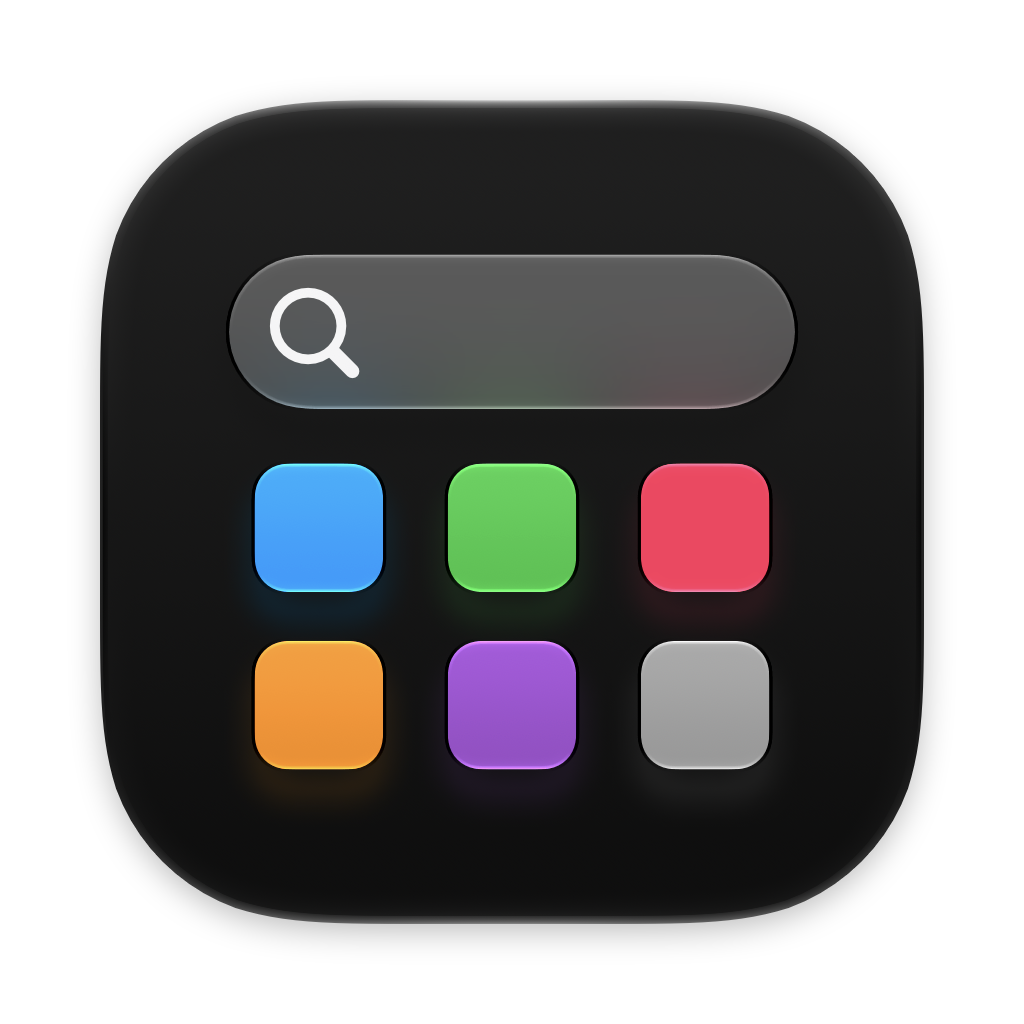
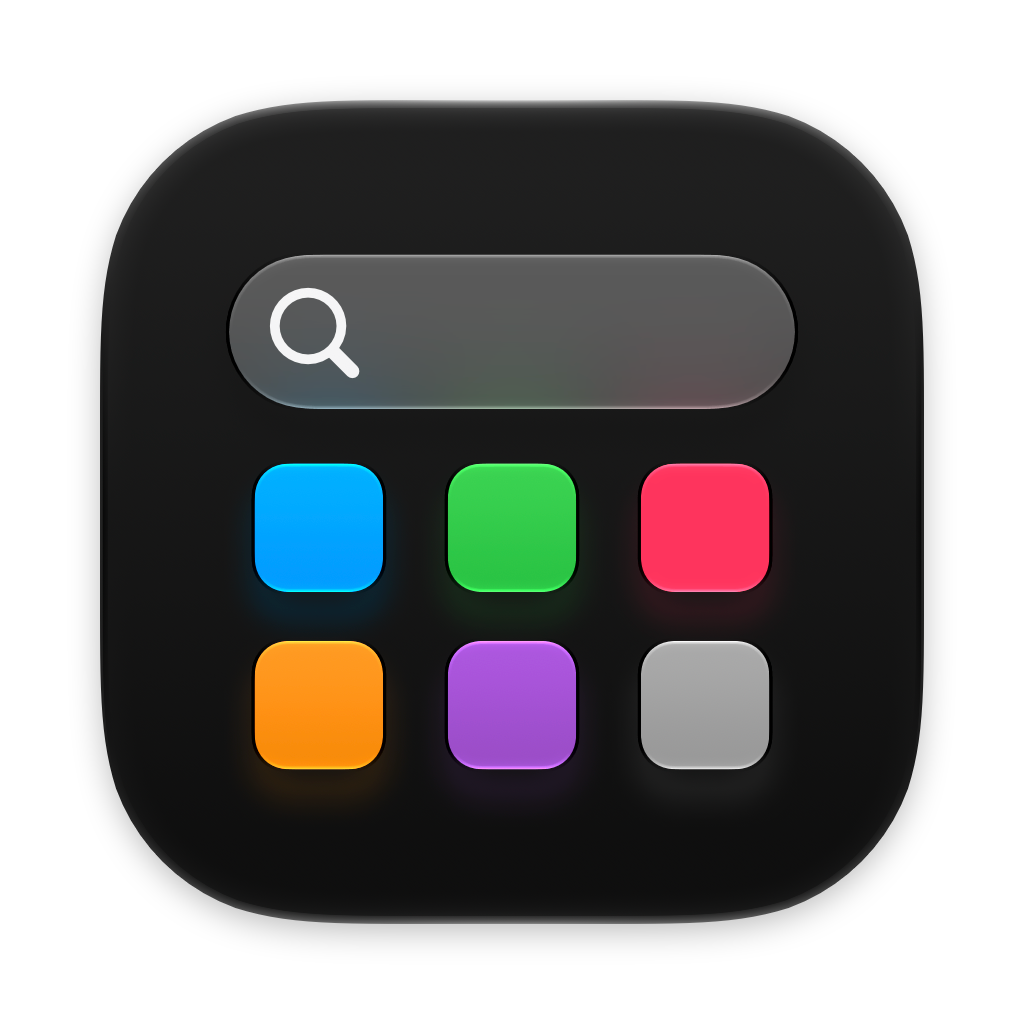
feat(settings): 提取系统官方高清单体并支持自适应深浅色图标

Changed region(s): [[0.4375, 0.4375, 0.5625, 0.5938], [0.25, 0.4375, 0.375, 0.5938], [0.25, 0.625, 0.375, 0.75]]

diff --git a/Sources/QLaunchpad/QLaunchpadSelfIconManager.swift b/Sources/QLaunchpad/QLaunchpadSelfIconManager.swift
@@ -46,11 +46,53 @@ final class QLaunchpadSelfIconManager: ObservableObject {
 
     private var customIconCache: NSImage?
     private var presetImageCache: [AppIconPreset: NSImage] = [:]
+    private var systemDynamicImage: NSImage?
+    private var systemLightImage: NSImage?
+    private var systemDarkImage: NSImage?
 
     private init() {
         let savedRaw = UserDefaults.standard.string(forKey: QLaunchpadPreferences.selfAppIconPresetKey) ?? AppIconPreset.default.rawValue
         self.currentPreset = AppIconPreset(rawValue: savedRaw) ?? .default
         self.hasCustomIcon = FileManager.default.fileExists(atPath: customIconFileURL.path)
+        setupAppearanceObservers()
+    }
+
+    private func setupAppearanceObservers() {
+        DistributedNotificationCenter.default().addObserver(
+            forName: NSNotification.Name("AppleInterfaceThemeChangedNotification"),
+            object: nil,
+            queue: .main
+        ) { [weak self] _ in
+            Task { @MainActor [weak self] in
+                self?.handleAppearanceChange()
+            }
+        }
+
+        NotificationCenter.default.addObserver(
+            forName: NSApplication.didChangeScreenParametersNotification,
+            object: nil,
+            queue: .main
+        ) { [weak self] _ in
+            Task { @MainActor [weak self] in
+                self?.handleAppearanceChange()
+            }
+        }
+    }
+
+    private func handleAppearanceChange() {
+        if currentPreset == .system {
+            applyToSystem(preset: .system)
+        }
+        objectWillChange.send()
+        NotificationCenter.default.post(name: .qlaunchpadSelfIconChanged, object: nil)
+    }
+
+    /// Whether macOS is currently operating in Dark Mode
+    var isSystemDarkMode: Bool {
+        if let app = NSApp {
+            return app.effectiveAppearance.bestMatch(from: [.darkAqua, .aqua]) == .darkAqua
+        }
+        return UserDefaults.standard.string(forKey: "AppleInterfaceStyle") == "Dark"
     }
 
     var customIconFileURL: URL {
@@ -63,7 +105,7 @@ final class QLaunchpadSelfIconManager: ObservableObject {
 
     /// The active display icon for QLaunchpad (for About view, Settings, etc.)
     var currentAppIcon: NSImage {
-        image(for: currentPreset) ?? defaultAppIcon
+        image(for: currentPreset, isDark: isSystemDarkMode) ?? defaultAppIcon
     }
 
     /// The default application icon
@@ -76,17 +118,58 @@ final class QLaunchpadSelfIconManager: ObservableObject {
         return NSApplication.shared.applicationIconImage
     }
 
-    /// Retrieves the image for a specific preset
-    func image(for preset: AppIconPreset) -> NSImage? {
-        if let cached = presetImageCache[preset] {
-            return cached
+    /// Returns the system-style launcher icon, adapting automatically to light/dark appearance
+    func systemIcon(isDark: Bool? = nil) -> NSImage {
+        loadSystemIconsIfNeeded()
+        let dark = isDark ?? isSystemDarkMode
+        if dark, let darkImg = systemDarkImage {
+            return darkImg
+        }
+        if !dark, let lightImg = systemLightImage {
+            return lightImg
+        }
+        return systemDynamicImage ?? defaultAppIcon
+    }
+
+    private func loadSystemIconsIfNeeded() {
+        if systemDynamicImage != nil { return }
+        guard let bundle = QLaunchpadResources.bundle else { return }
+
+        let lightURL = bundle.url(forResource: "AppIcon-System-Light", withExtension: "png")
+            ?? bundle.url(forResource: "AppIcon-System", withExtension: "png")
+        let darkURL = bundle.url(forResource: "AppIcon-System-Dark", withExtension: "png")
+            ?? bundle.url(forResource: "AppIcon-System", withExtension: "png")
+
+        if let lightURL, let img = NSImage(contentsOf: lightURL) {
+            systemLightImage = img
+        }
+        if let darkURL, let img = NSImage(contentsOf: darkURL) {
+            systemDarkImage = img
         }
 
+        let light = systemLightImage
+        let dark = systemDarkImage
+
+        let dynamic = NSImage(size: NSSize(width: 1024, height: 1024), flipped: false) { [weak self] rect in
+            let appearance = NSAppearance.currentDrawing()
+            let isDark: Bool
+            if let match = appearance.bestMatch(from: [.darkAqua, .aqua]) {
+                isDark = (match == .darkAqua)
+            } else {
+                isDark = self?.isSystemDarkMode ?? false
+            }
+            let target = isDark ? (dark ?? light) : (light ?? dark)
+            target?.draw(in: rect)
+            return true
+        }
+        systemDynamicImage = dynamic
+    }
+
+    /// Retrieves the image for a specific preset, optionally specifying the appearance mode
+    func image(for preset: AppIconPreset, isDark: Bool? = nil) -> NSImage? {
         switch preset {
         case .default:
-            let img = defaultAppIcon
-            presetImageCache[.default] = img
-            return img
+            return defaultAppIcon
 
         case .custom:
             if let customIconCache {
@@ -98,14 +181,20 @@ final class QLaunchpadSelfIconManager: ObservableObject {
             }
             return defaultAppIcon
 
-        case .system, .rocket:
+        case .system:
+            return systemIcon(isDark: isDark)
+
+        case .rocket:
+            if let cached = presetImageCache[.rocket] {
+                return cached
+            }
             guard let name = preset.resourceName,
                   let bundle = QLaunchpadResources.bundle,
                   let url = bundle.url(forResource: name, withExtension: "png"),
                   let img = NSImage(contentsOf: url) else {
                 return defaultAppIcon
             }
-            presetImageCache[preset] = img
+            presetImageCache[.rocket] = img
             return img
         }
     }
@@ -184,11 +273,15 @@ final class QLaunchpadSelfIconManager: ObservableObject {
             if isPackagedApp {
                 // Restore Assets.car CFBundleIconName rendering for Dock
                 NSApp.applicationIconImage = nil
+                NSWorkspace.shared.setIcon(nil, forFile: bundlePath, options: [])
             } else {
                 NSApp.applicationIconImage = defaultAppIcon
             }
+        } else if preset == .system {
+            let img = systemIcon(isDark: isSystemDarkMode)
+            NSApp.applicationIconImage = img
             if isPackagedApp {
-                NSWorkspace.shared.setIcon(nil, forFile: bundlePath, options: [])
+                NSWorkspace.shared.setIcon(img, forFile: bundlePath, options: [])
             }
         } else {
             if let img = image(for: preset) {

diff --git a/Sources/QLaunchpad/SettingsView.swift b/Sources/QLaunchpad/SettingsView.swift
@@ -443,6 +443,7 @@ private struct AppearanceSettingsView: View {
 
 private struct AppIconGalleryView: View {
     @ObservedObject private var iconManager = QLaunchpadSelfIconManager.shared
+    @Environment(\.colorScheme) private var colorScheme
     @State private var isDropTargeted = false
 
     var body: some View {
@@ -454,7 +455,7 @@ private struct AppIconGalleryView: View {
                             preset: preset,
                             isSelected: iconManager.currentPreset == preset,
                             hasCustomIcon: iconManager.hasCustomIcon,
-                            image: iconManager.image(for: preset)
+                            image: iconManager.image(for: preset, isDark: colorScheme == .dark)
                         ) {
                             if preset == .custom && !iconManager.hasCustomIcon {
                                 chooseCustomAppIcon()
@@ -1342,8 +1343,10 @@ private struct AboutSettingsView: View {
         return "v\(short) (\(build))"
     }
 
+    @Environment(\.colorScheme) private var colorScheme
+
     private var appIcon: NSImage {
-        iconManager.currentAppIcon
+        iconManager.image(for: iconManager.currentPreset, isDark: colorScheme == .dark) ?? iconManager.defaultAppIcon
     }
 
     var body: some View {
